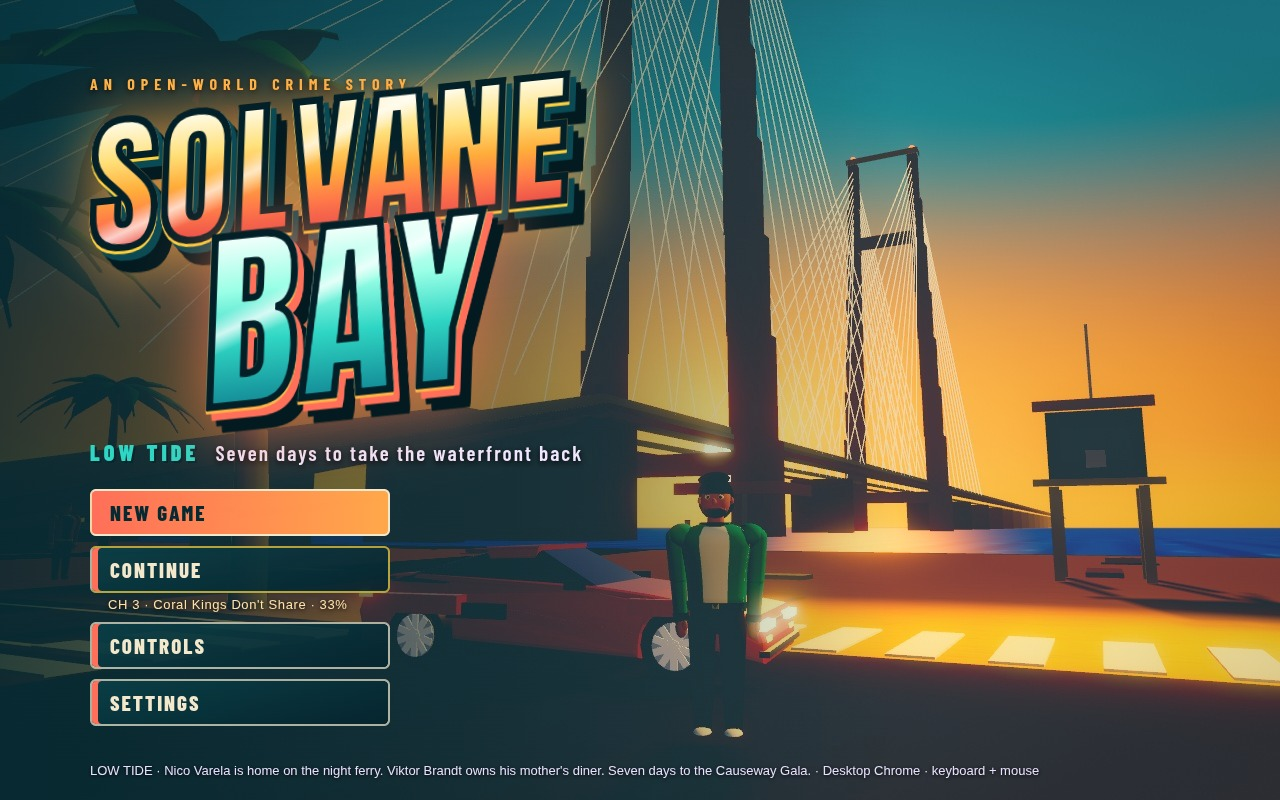
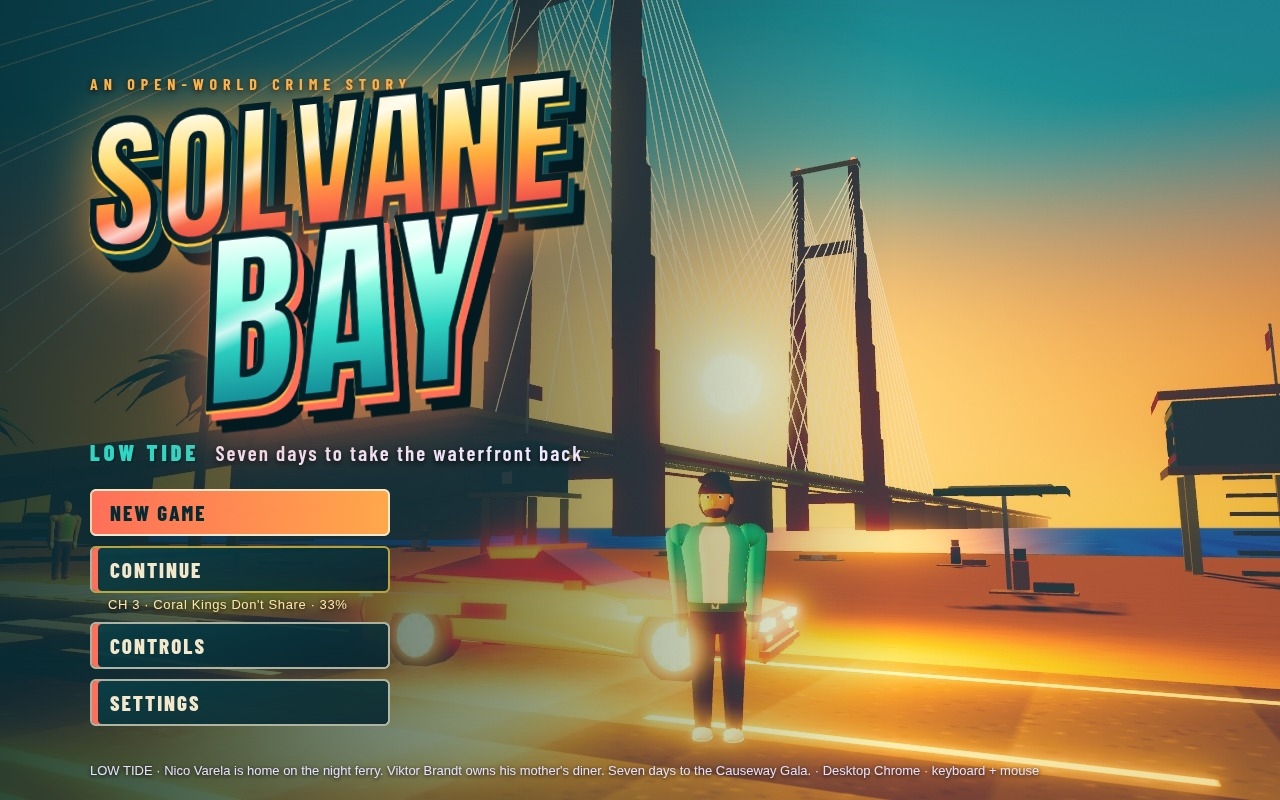
Title in the light: camera moved down the Strand so the low sun disc sits in open sky between the Causeway pylons, warm fill and rim on Nico and the Veloce, warm bounce on road and sand, lighter vignette

diff --git a/game/src/shots/screenshotScenes.js b/game/src/shots/screenshotScenes.js
@@ -132,21 +132,24 @@ function crewScreen(api) {
   G.shotCrisp = true; G.shotCam = { pos: [HALF - 4, 9, 78], look: [HALF + 60, 24, -40], fov: 62 }; thinPalms(HALF - 4, 78, 15, 60, 6);
   for (let i = 0; i < 3; i++) api.renderFrame(true); api.showScreen('crew'); finish(api, 1); }
 // Key art: low on the Strand at golden hour looking north-east, the VELOCE GT and Nico in front, the sea gold under the
-// low sun and both coral Causeway pylons with their cable fans standing over it.
+// low sun and both coral Causeway pylons with their cable fans standing over it. Camera placed so the sun disc sits in
+// the open sky between the near pylon and the far one, just above the deck.
 function title(api) {
   clearTraffic(); seedSave({ v: 1, money: 3240, xp: 520, completed: ['m1', 'm2'], packages: [0, 1, 2, 3, 4, 5, 6, 7], owned: {}, ammo: {}, clock: 17.6, play: 4320, place: 'Palmetto Beach', at: '2026-11-18 17:35' });
-  G.mode = 'title'; G.clock = 17.5; G.magicForce = 1; G.exposure = 1.15; G.time = 30; rig.mode = 'aerial'; G.wanted.stars = 0; G.shotCrisp = true;
-  const C = { x: HALF - 3, z: -30 }, at = (deg, d) => [C.x + Math.sin(deg * Math.PI / 180) * d, C.z - Math.cos(deg * Math.PI / 180) * d];
-  const [vx, vz] = at(58, 10), car = createCar('veloce', vx, vz, 0.15, 'parked', 0xd01020); car.mesh.position.set(car.x, 0, car.z); car.mesh.rotation.y = car.heading;
+  G.mode = 'title'; G.clock = 17.0; G.magicForce = 1; G.exposure = 1.22; G.time = 30; rig.mode = 'aerial'; G.wanted.stars = 0; G.shotCrisp = true;
+  const C = { x: HALF - 3, z: -10 }, at = (deg, d) => [C.x + Math.sin(deg * Math.PI / 180) * d, C.z - Math.cos(deg * Math.PI / 180) * d];
+  const [vx, vz] = at(58, 10), car = createCar('veloce', vx, vz, 0.15, 'parked', COVER.paint); car.mesh.position.set(car.x, 0, car.z); car.mesh.rotation.y = car.heading;
   const [nx, nz] = at(67, 6.4), p = G.p; p.x = nx; p.z = nz; p.yaw = -1.25; p.mesh.visible = true; p.mesh.position.set(p.x, 0, p.z); p.mesh.rotation.y = p.yaw; animateWalk(p.mesh, 0, 0, false);
   const tc = (key, z, dir, col) => { const c = placeTraffic('z', N, z, dir, key, 'traffic', col); c.mesh.position.set(c.x, 0, c.z); c.mesh.rotation.y = c.heading; return c; };
-  tc('tidebus', -60, 1); tc('rumble', -10, -1, 0x8fd3c8); tc('pico', 40, 1, 0xff8a3d); tc('hawke', 10, -1, 0xf0f0f0);
-  [[-52, 1, 1], [-64, 1, -1], [-40, -1, 1], [-12, 1, 1], [0, -1, -1]].forEach(([z, sd, d], i) => { const a = spawnPed('z', N, z, sd, d); animateWalk(a.mesh, i * 1.3, 0.6, false); a.mesh.position.y = 0.25; a.y = 0.25; });
+  tc('tidebus', -40, 1); tc('rumble', 10, -1, 0x8fd3c8); tc('pico', 60, 1, 0xff8a3d); tc('hawke', 30, -1, 0xf0f0f0); // z offsets follow C.z + 30
+  [[-52, 1, 1], [-64, 1, -1], [-40, -1, 1], [-12, 1, 1], [0, -1, -1]].forEach(([z, sd, d], i) => { const a = spawnPed('z', N, z + C.z + 30, sd, d); animateWalk(a.mesh, i * 1.3, 0.6, false); a.mesh.position.y = 0.25; a.y = 0.25; });
   thinPalms(C.x, C.z, 40, 100, 8);
   // sunlit foreground: a warm low key from the sea side washes the near asphalt, the car and Nico in late sun
   const key = new THREE.SpotLight(0xffc27e, 1200, 90, 0.5, 0.7, 1.6); key.position.set(HALF + 20, 14, -18); key.target.position.set(HALF + 2, 0, -36); G.scene.add(key, key.target);
-  const fill = new THREE.PointLight(0xffc89a, 26, 14, 1.5); fill.position.set(C.x + 1.5, 2.6, C.z + 1.5); G.scene.add(fill); // warm bounce on Nico's face and the car's flank
-  if (G.roadMat) G.roadMat.color.setRGB(1.45, 1.22, 1.0); if (G.post) G.post.params.vignette = 0.3;
+  const fill = new THREE.PointLight(0xffc89a, 75, 16, 1.4); fill.position.set(C.x + 1.2, 3.0, C.z + 0.8); G.scene.add(fill); // warm bounce on Nico's face and the car's flank
+  { const [rx, rz] = at(72, 9.5), rim = new THREE.PointLight(0xffa25a, 70, 7, 1.6); rim.position.set(rx, 2.2, rz); G.scene.add(rim); } // sun-side rim on Nico's shoulders
+  { const [gx, gz] = at(50, 7), glow = new THREE.PointLight(0xffb070, 90, 12, 1.5); glow.position.set(gx, 1.2, gz); G.scene.add(glow); } // low warm fill on the road and sand
+  if (G.roadMat) G.roadMat.color.setRGB(1.45, 1.22, 1.0); if (G.post) Object.assign(G.post.params, { vignette: 0.16, bloom: 0.5 });
   { const [tx, tz] = at(62, 40); G.titleCam = { x: C.x, y: 1.5, z: C.z, tx, ty: 7.4, tz }; }
   api.showHud(false); api.showScreen('title'); finish(api, 2); }
 
